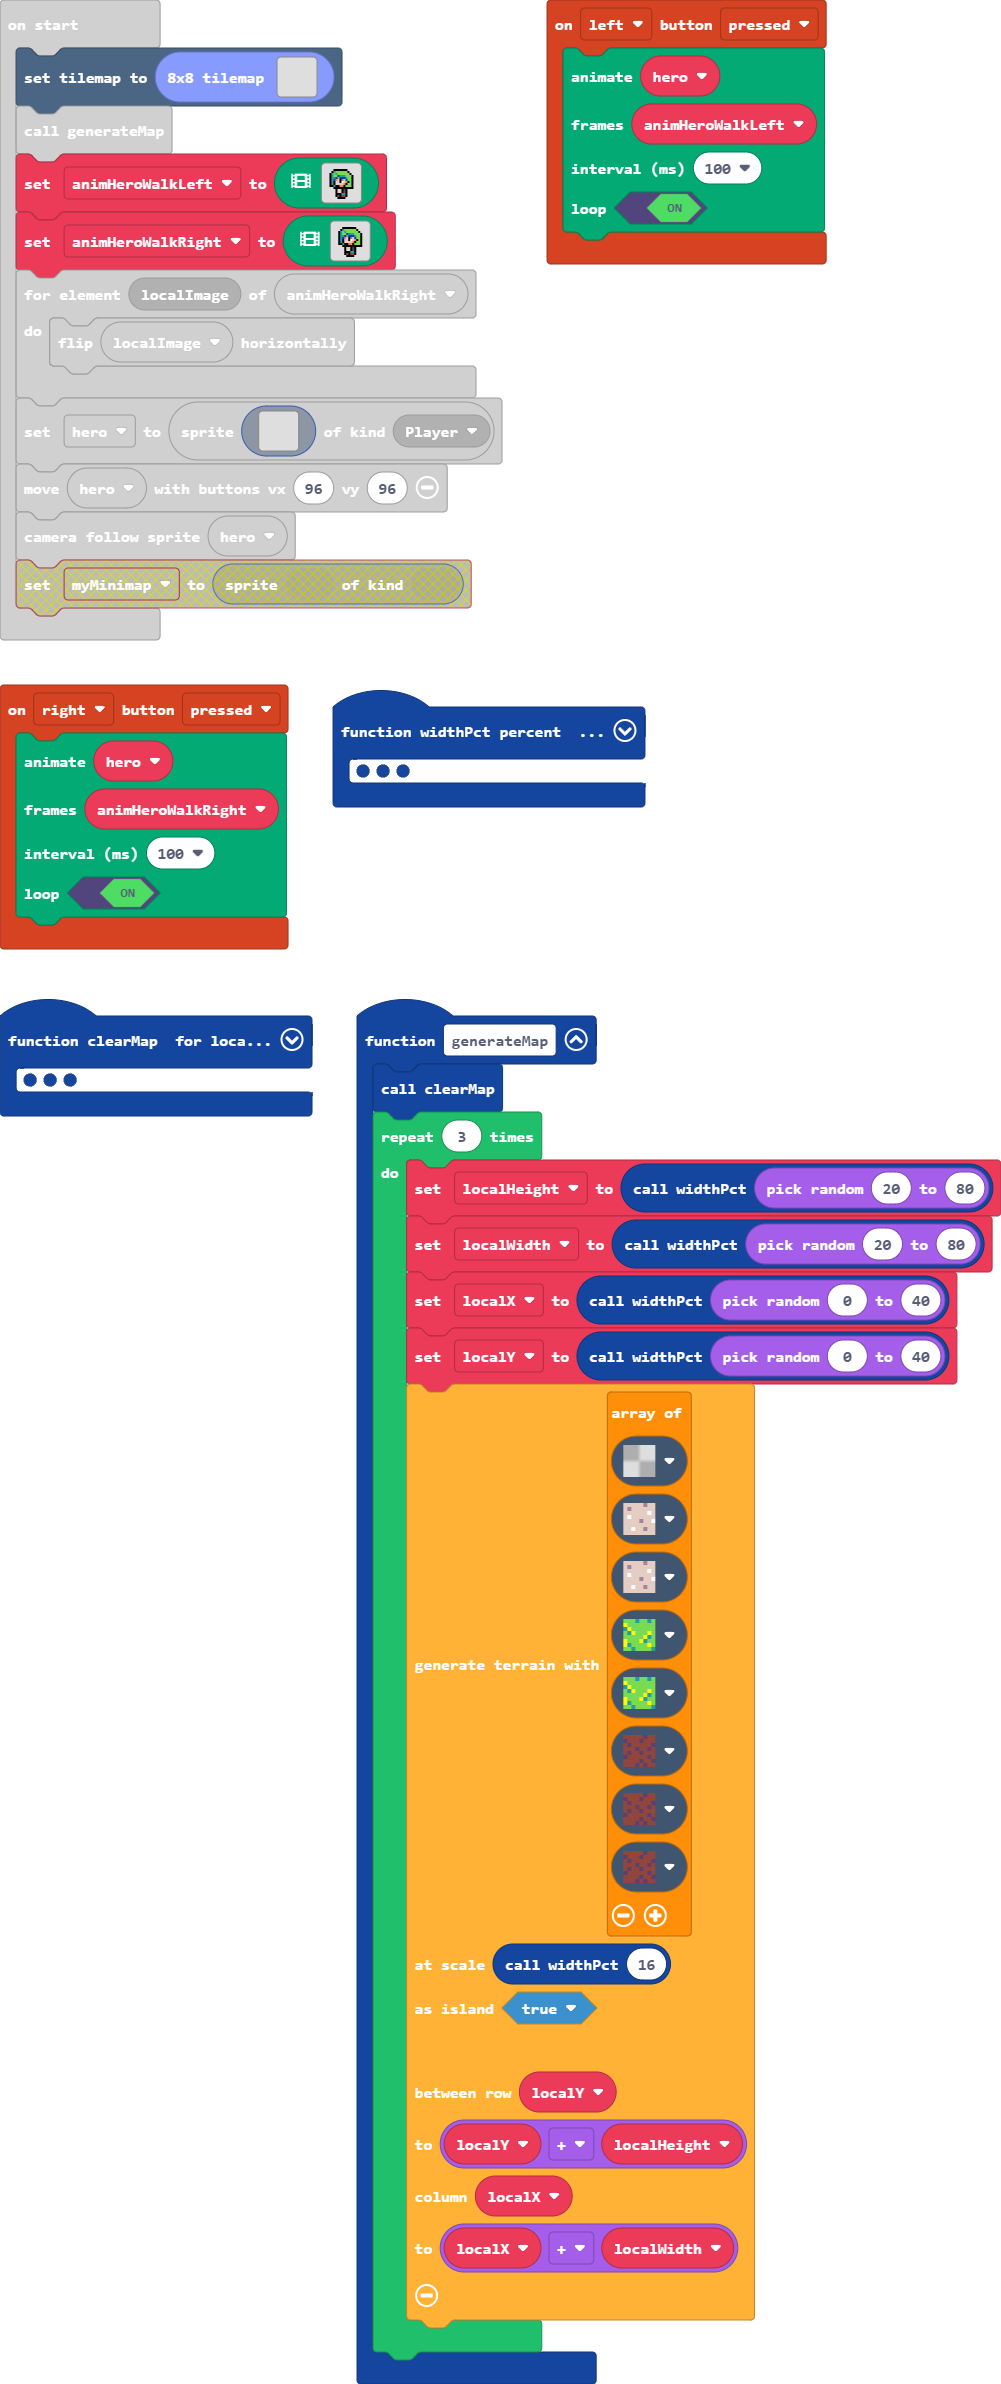
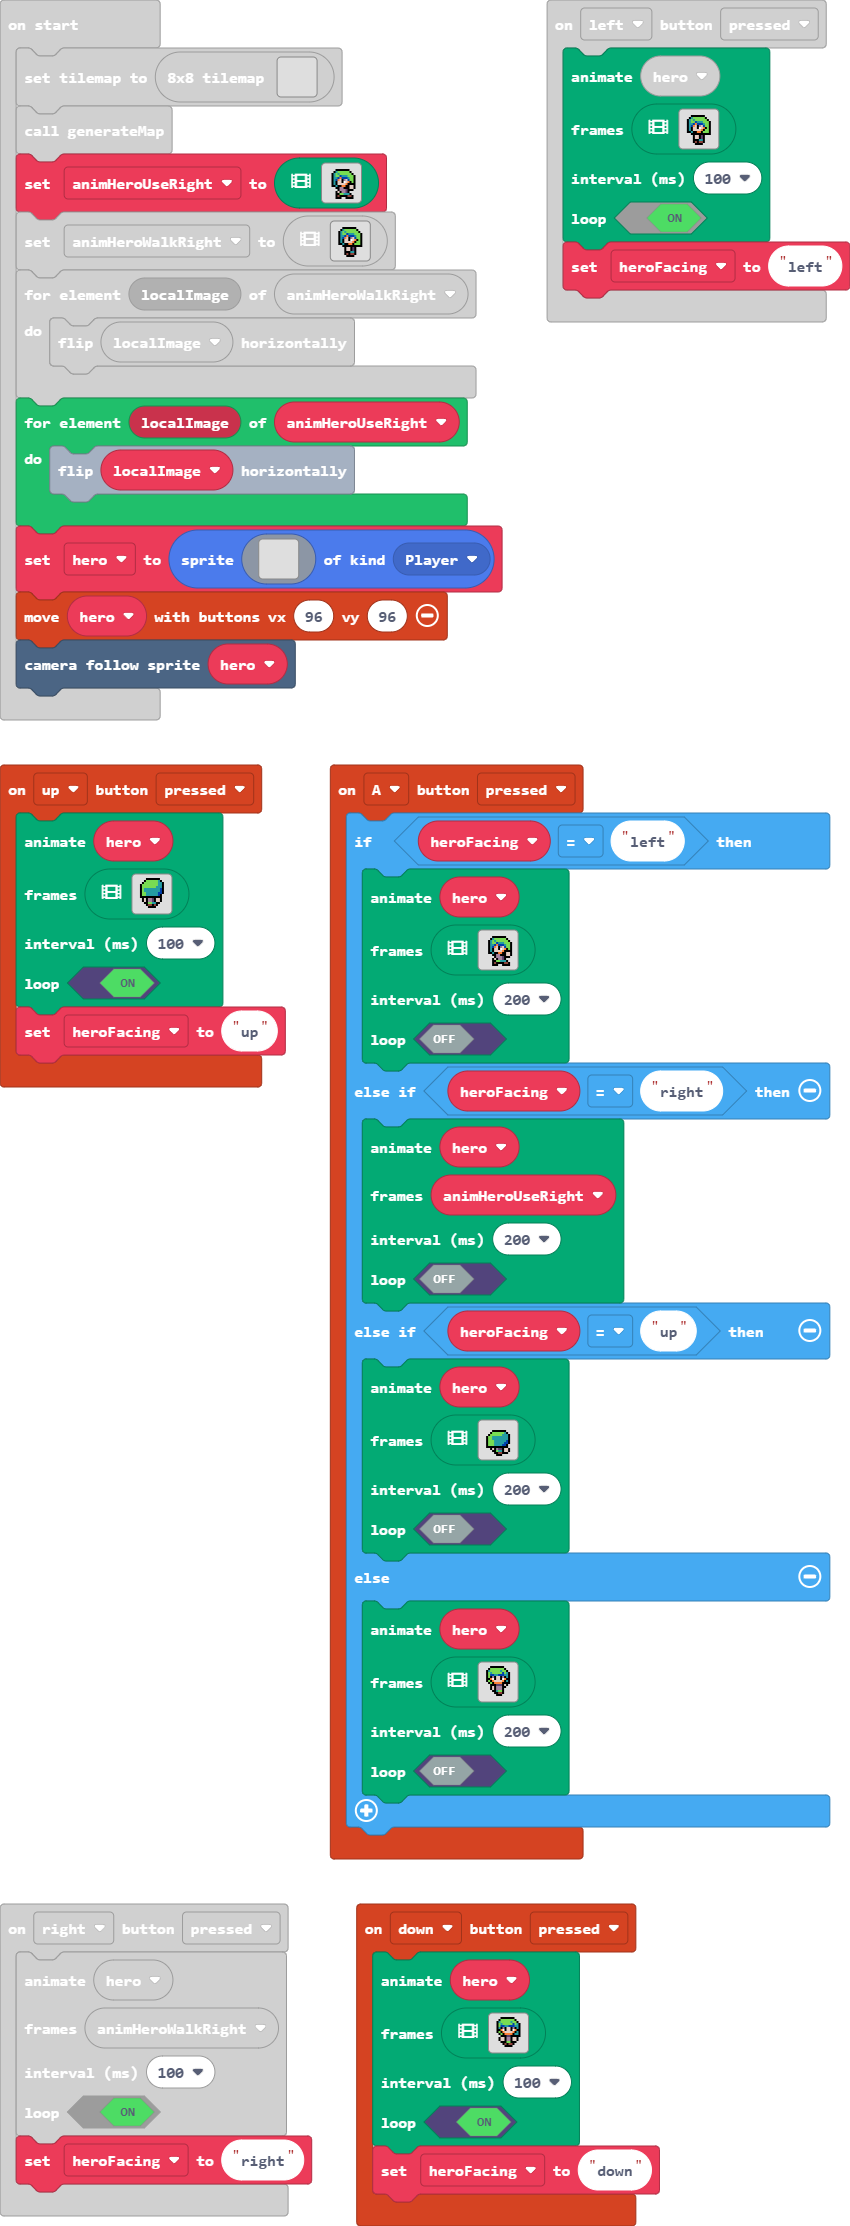
attack frames

diff --git a/images.g.ts b/images.g.ts
@@ -13,76 +13,6 @@ namespace myImages {
 
     helpers._registerFactory("animation", function(name: string) {
         switch(helpers.stringTrim(name)) {
-            case "hero-walk-down":
-            case "O|H5^mM/Ev;*LnN|7a`k":return [img`
-. . . . f f f f f f f . . . . . 
-. . . f 7 7 7 7 7 7 7 f . . . . 
-. . f 6 7 7 7 7 7 6 7 7 f . . . 
-. . f 7 6 7 7 7 7 7 8 7 6 f . . 
-. . f 7 8 8 6 6 8 8 8 6 6 f . . 
-. . f 6 f b f d d f b f 6 f . . 
-. . f f 4 1 f d d f 1 4 f f . . 
-. . f 7 f 4 d d d d 4 f 6 f . . 
-. . . f 7 f 4 4 4 4 f 6 6 f . . 
-. . . . f f f c c f f f f f . . 
-. . . f d d f b b f d d f . . . 
-. . . f d d f b b f d d f . . . 
-. . . . f f f 7 7 f f f . . . . 
-. . . . . f e f e e f . . . . . 
-. . . . . . f f f f . . . . . . 
-. . . . . . . . . . . . . . . . 
-`, img`
-. . . . . . . . . . . . . . . . 
-. . . . f f f f f f f . . . . . 
-. . . f 7 7 7 7 7 7 7 f . . . . 
-. . f 6 7 7 7 7 7 6 7 7 f . . . 
-. . f 7 6 7 7 7 7 7 8 7 6 f . . 
-. . f 7 8 8 6 6 8 8 8 6 6 f . . 
-. . f 7 f b f d d f b f 6 f . . 
-. . f f 4 1 f d d f 1 4 f f . . 
-. . f 7 f 4 d d d d 4 f 6 f . . 
-. . . f 7 f 4 4 4 4 f d f f . . 
-. . . . f f f c c c f d f . . . 
-. . . . f d d f b b f f f . . . 
-. . . . f d d f b b f . . . . . 
-. . . . . f f 6 7 7 f . . . . . 
-. . . . . . f f e e f . . . . . 
-. . . . . . . f f f . . . . . . 
-`, img`
-. . . . f f f f f f f . . . . . 
-. . . f 7 7 7 7 7 7 7 f . . . . 
-. . f 6 7 7 7 7 7 6 7 7 f . . . 
-. . f 7 6 7 7 7 7 7 8 7 6 f . . 
-. . f 7 8 8 6 6 8 8 8 6 6 f . . 
-. . f 6 f b f d d f b f 6 f . . 
-. . f f 4 1 f d d f 1 4 f f . . 
-. . f 7 f 4 d d d d 4 f 6 f . . 
-. . . f 7 f 4 4 4 4 f 6 6 f . . 
-. . . . f f f c c f f f f f . . 
-. . . f d d f b b f d d f . . . 
-. . . f d d f b b f d d f . . . 
-. . . . f f f 7 7 f f f . . . . 
-. . . . . f e e f e f . . . . . 
-. . . . . . f f f f . . . . . . 
-. . . . . . . . . . . . . . . . 
-`, img`
-. . . . . . . . . . . . . . . . 
-. . . . f f f f f f f . . . . . 
-. . . f 7 7 7 7 7 7 7 f . . . . 
-. . f 6 7 7 7 7 7 6 7 7 f . . . 
-. . f 7 6 7 7 7 7 7 8 7 6 f . . 
-. . f 7 8 8 6 6 8 8 8 6 6 f . . 
-. . f 6 f b f d d f b f 6 f . . 
-. . f f 4 1 f d d f 1 4 f f . . 
-. . f 7 f 4 d d d d 4 f 6 f . . 
-. . f f d f 4 4 4 4 f 6 6 f . . 
-. . . f d f c c c f f f f f . . 
-. . . . f f b b f d d f . . . . 
-. . . . . f b b f d d f . . . . 
-. . . . . f 7 7 6 f f . . . . . 
-. . . . . f e e f f . . . . . . 
-. . . . . . f f . . . . . . . . 
-`];
             case "hero-walk-left":
             case "anim1":return [img`
 . . . . . . . . . . . . . . . . 
@@ -223,6 +153,76 @@ namespace myImages {
 . . . . . . f f e e f . . . . . 
 . . . . . . . . f f f . . . . . 
 `];
+            case "hero-walk-down":
+            case "O|H5^mM/Ev;*LnN|7a`k":return [img`
+. . . . f f f f f f f . . . . . 
+. . . f 7 7 7 7 7 7 7 f . . . . 
+. . f 6 7 7 7 7 7 6 7 7 f . . . 
+. . f 7 6 7 7 7 7 7 8 7 6 f . . 
+. . f 7 8 8 6 6 8 8 8 6 6 f . . 
+. . f 6 f b f d d f b f 6 f . . 
+. . f f 4 1 f d d f 1 4 f f . . 
+. . f 7 f 4 d d d d 4 f 6 f . . 
+. . . f 7 f 4 4 4 4 f 6 6 f . . 
+. . . . f f f c c f f f f f . . 
+. . . f d d f b b f d d f . . . 
+. . . f d d f b b f d d f . . . 
+. . . . f f f 7 7 f f f . . . . 
+. . . . . f e f e e f . . . . . 
+. . . . . . f f f f . . . . . . 
+. . . . . . . . . . . . . . . . 
+`, img`
+. . . . . . . . . . . . . . . . 
+. . . . f f f f f f f . . . . . 
+. . . f 7 7 7 7 7 7 7 f . . . . 
+. . f 6 7 7 7 7 7 6 7 7 f . . . 
+. . f 7 6 7 7 7 7 7 8 7 6 f . . 
+. . f 7 8 8 6 6 8 8 8 6 6 f . . 
+. . f 7 f b f d d f b f 6 f . . 
+. . f f 4 1 f d d f 1 4 f f . . 
+. . f 7 f 4 d d d d 4 f 6 f . . 
+. . . f 7 f 4 4 4 4 f d f f . . 
+. . . . f f f c c c f d f . . . 
+. . . . f d d f b b f f f . . . 
+. . . . f d d f b b f . . . . . 
+. . . . . f f 6 7 7 f . . . . . 
+. . . . . . f f e e f . . . . . 
+. . . . . . . f f f . . . . . . 
+`, img`
+. . . . f f f f f f f . . . . . 
+. . . f 7 7 7 7 7 7 7 f . . . . 
+. . f 6 7 7 7 7 7 6 7 7 f . . . 
+. . f 7 6 7 7 7 7 7 8 7 6 f . . 
+. . f 7 8 8 6 6 8 8 8 6 6 f . . 
+. . f 6 f b f d d f b f 6 f . . 
+. . f f 4 1 f d d f 1 4 f f . . 
+. . f 7 f 4 d d d d 4 f 6 f . . 
+. . . f 7 f 4 4 4 4 f 6 6 f . . 
+. . . . f f f c c f f f f f . . 
+. . . f d d f b b f d d f . . . 
+. . . f d d f b b f d d f . . . 
+. . . . f f f 7 7 f f f . . . . 
+. . . . . f e e f e f . . . . . 
+. . . . . . f f f f . . . . . . 
+. . . . . . . . . . . . . . . . 
+`, img`
+. . . . . . . . . . . . . . . . 
+. . . . f f f f f f f . . . . . 
+. . . f 7 7 7 7 7 7 7 f . . . . 
+. . f 6 7 7 7 7 7 6 7 7 f . . . 
+. . f 7 6 7 7 7 7 7 8 7 6 f . . 
+. . f 7 8 8 6 6 8 8 8 6 6 f . . 
+. . f 6 f b f d d f b f 6 f . . 
+. . f f 4 1 f d d f 1 4 f f . . 
+. . f 7 f 4 d d d d 4 f 6 f . . 
+. . f f d f 4 4 4 4 f 6 6 f . . 
+. . . f d f c c c f f f f f . . 
+. . . . f f b b f d d f . . . . 
+. . . . . f b b f d d f . . . . 
+. . . . . f 7 7 6 f f . . . . . 
+. . . . . f e e f f . . . . . . 
+. . . . . . f f . . . . . . . . 
+`];
             case "hero-use-left":
             case "anim3":return [img`
 . . . . . . . . . . . . . . . . 
@@ -258,6 +258,129 @@ f d d f f c c c f . . . . . . .
 f f f 7 7 6 6 6 6 f f . . . . . 
 . . . f e e f f f e e f . . . . 
 . . . f f f . . f f f f . . . . 
+`, img`
+. . . . . . . . . . . . . . . . 
+. . . . f f f f f f f . . . . . 
+. . . f 6 7 7 7 7 7 7 f . . . . 
+. . f 6 7 6 7 7 7 7 7 7 f . . . 
+. . f 6 7 7 8 6 6 6 7 7 7 f . . 
+. . f 6 6 8 4 8 8 8 6 7 7 f . . 
+. . f 6 8 4 d f b d 8 7 7 f . . 
+. . f 6 f d d f 1 d 4 f 7 f . . 
+. . f 6 f d d d d 4 f 7 7 f . . 
+. . f f 6 f f 4 4 f 7 7 7 f . . 
+. . . . f f f f f f f f f f . . 
+. . . . . f d d f c f . . . . . 
+. . . . . f d d f c f . . . . . 
+. . . . . f f f 6 6 f . . . . . 
+. . . . . f e f e e f . . . . . 
+. . . . . . f f f f . . . . . . 
+`];
+            case "hero-use-down":
+            case "anim5":return [img`
+. . . . f f f f f f f . . . . . 
+. . . f 7 7 7 7 7 7 7 f . . . . 
+. . f 6 7 7 7 7 7 6 7 7 f . . . 
+. . f 7 6 7 7 7 7 7 8 7 6 f . . 
+. . f 7 8 8 6 6 8 8 8 6 6 f . . 
+. . f 7 f b f d d f b f 6 f . . 
+. . f f 4 1 f d d f 1 4 f f . . 
+. . f 7 f 4 d d d d 4 f 6 f . . 
+. . . f 7 f 4 4 4 4 f f f f . . 
+. . . . f f f c c c f d f . . . 
+. . . . f d f b b b f f . . . . 
+. . . . f d f b b b f . . . . . 
+. . . . . f f 6 7 7 f . . . . . 
+. . . . . . f f e e f . . . . . 
+. . . . . . . f f f . . . . . . 
+. . . . . . . . . . . . . . . . 
+`, img`
+. . . . . . . . . . . . . . . . 
+. . . f f f f f f f . . . . . . 
+. . f 7 7 7 7 7 7 7 f . . . . . 
+. f 6 7 7 7 7 7 6 7 7 f . . . . 
+. f 7 6 7 7 7 7 7 8 7 6 f . . . 
+. f 7 8 8 6 6 8 8 8 6 6 f . . . 
+. f 6 f b f d d f b f 6 f . . . 
+. f f 4 1 f d d f 1 4 f f . . . 
+. f 7 f 4 d d d d 4 f 6 f . . . 
+. f f 7 f 4 4 4 4 f 6 6 f . . . 
+. . f f f c c c f f f f f . . . 
+. . f d f b b f 1 1 d f . . . . 
+. . . f f b b f 1 1 d f . . . . 
+. . . . f 7 7 f 1 1 d f . . . . 
+. . . . . f e f f f f . . . . . 
+. . . . . . f f f . . . . . . . 
+`, img`
+. . . . . . . . . . . . . . . . 
+. . . . f f f f f f f . . . . . 
+. . . f 7 7 7 7 7 7 7 f . . . . 
+. . f 6 7 7 7 7 7 6 7 7 f . . . 
+. . f 7 6 7 7 7 7 7 8 7 6 f . . 
+. . f 7 8 8 6 6 8 8 8 6 6 f . . 
+. . f 6 f b f d d f b f 6 f . . 
+. . f f 4 1 f d d f 1 4 f f . . 
+. . f 7 f 4 d d d d 4 f 6 f . . 
+. . . f 7 f 4 4 4 4 f 6 6 f . . 
+. . . . f f f c c f f f f f . . 
+. . . f d d f b b f d d f . . . 
+. . . f d d f b b f d d f . . . 
+. . . . f f f 7 7 f f f . . . . 
+. . . . . f e e f e f . . . . . 
+. . . . . . f f f f . . . . . . 
+`];
+            case "hero-use-up":
+            case "anim4":return [img`
+. . . . . . . . . . . . . . . . 
+. . . . . . . . . . . . . . . . 
+. . . . . . . . . . . . . . . . 
+. . . . . f f f f f f f . . . . 
+. . . . f 7 7 7 7 7 7 6 f . . . 
+. . . f 7 7 7 7 7 7 6 6 6 f . . 
+. . f 7 7 6 6 6 6 6 6 6 6 f . . 
+. . f 7 7 6 6 6 6 6 6 6 6 f . . 
+. . f 7 7 7 6 6 6 6 6 6 8 f . . 
+. . f 7 7 7 6 6 6 6 6 8 8 f . . 
+. . f 7 7 7 6 6 6 6 8 8 f . . . 
+. . f f f f f f f f f f f . . . 
+. . . . f d f b c c f d d f . . 
+. . . . . f f 7 6 6 f d d f . . 
+. . . . . . f f e e f f f . . . 
+. . . . . . . f f f . . . . . . 
+`, img`
+. . . f f f f f f f . . . . . . 
+. . f 7 7 7 7 7 7 6 f . . . . . 
+. f 7 7 7 7 7 7 7 6 6 f . . . . 
+f 7 7 7 7 7 7 7 7 6 6 f . . . . 
+f 7 7 7 7 7 7 7 7 6 6 f f f . . 
+f 7 7 7 7 7 7 7 6 6 8 f d f . . 
+f 7 7 6 6 6 6 6 6 6 8 f d f . . 
+f 7 7 6 6 6 6 6 6 6 8 f f . . . 
+f 7 7 7 6 6 6 6 6 6 8 f . . . . 
+f f f f f f f f f f f f . . . . 
+. . f d d f b b c f . . . . . . 
+. . f d d f b b c f . . . . . . 
+. . . f f f 7 7 6 f . . . . . . 
+. . . . . f e e e f . . . . . . 
+. . . . . f f f f . . . . . . . 
+. . . . . . . . . . . . . . . . 
+`, img`
+. . . . . . . . . . . . . . . . 
+. . . . . f f f f f f f . . . . 
+. . . . f 7 7 7 7 7 7 6 f . . . 
+. . . f 7 7 7 7 7 7 7 6 6 f . . 
+. . f 7 7 7 7 7 7 7 7 6 6 f . . 
+. . f 7 7 7 7 7 7 7 6 6 6 f . . 
+. . f 7 6 6 6 6 6 6 6 6 8 f . . 
+. . f 7 6 6 6 6 6 6 6 6 8 f . . 
+. . f 7 7 6 6 6 6 6 6 8 8 f . . 
+. . f 7 7 6 6 6 6 6 6 8 f . . . 
+. . f f f f f f f f f f f . . . 
+. . . f d f b c c f d d f . . . 
+. . . f d f b c c f d d f . . . 
+. . . . f f 7 7 6 6 f f . . . . 
+. . . . . f e f e e f . . . . . 
+. . . . . . f f f f . . . . . . 
 `];
         }
         return null;

diff --git a/main.ts b/main.ts
@@ -1,16 +1,57 @@
 namespace SpriteKind {
     export const StatusBar = SpriteKind.create()
 }
-function widthPct (percent: number) {
-    return percent / 100 * tileUtil.tilemapProperty(tileUtil.currentTilemap(), tileUtil.TilemapProperty.Columns)
-}
-controller.left.onEvent(ControllerButtonEvent.Pressed, function () {
+controller.up.onEvent(ControllerButtonEvent.Pressed, function () {
     animation.runImageAnimation(
     hero,
-    animHeroWalkLeft,
+    assets.animation`hero-walk-up`,
     100,
     true
     )
+    heroFacing = "up"
+})
+function widthPct (percent: number) {
+    return percent / 100 * tileUtil.tilemapProperty(tileUtil.currentTilemap(), tileUtil.TilemapProperty.Columns)
+}
+controller.A.onEvent(ControllerButtonEvent.Pressed, function () {
+    if (heroFacing == "left") {
+        animation.runImageAnimation(
+        hero,
+        assets.animation`hero-use-left`,
+        200,
+        false
+        )
+    } else if (heroFacing == "right") {
+        animation.runImageAnimation(
+        hero,
+        animHeroUseRight,
+        200,
+        false
+        )
+    } else if (heroFacing == "up") {
+        animation.runImageAnimation(
+        hero,
+        assets.animation`hero-use-up`,
+        200,
+        false
+        )
+    } else {
+        animation.runImageAnimation(
+        hero,
+        assets.animation`hero-use-down`,
+        200,
+        false
+        )
+    }
+})
+controller.left.onEvent(ControllerButtonEvent.Pressed, function () {
+    animation.runImageAnimation(
+    hero,
+    assets.animation`hero-walk-left`,
+    100,
+    true
+    )
+    heroFacing = "left"
 })
 controller.right.onEvent(ControllerButtonEvent.Pressed, function () {
     animation.runImageAnimation(
@@ -19,6 +60,7 @@ controller.right.onEvent(ControllerButtonEvent.Pressed, function () {
     100,
     true
     )
+    heroFacing = "right"
 })
 function generateMap () {
     clearMap()
@@ -47,6 +89,15 @@ function generateMap () {
         )
     }
 }
+controller.down.onEvent(ControllerButtonEvent.Pressed, function () {
+    animation.runImageAnimation(
+    hero,
+    assets.animation`hero-walk-down`,
+    100,
+    true
+    )
+    heroFacing = "down"
+})
 function clearMap () {
     for (let localX = 0; localX <= tileUtil.tilemapProperty(tileUtil.currentTilemap(), tileUtil.TilemapProperty.Columns); localX++) {
         for (let localY = 0; localY <= tileUtil.tilemapProperty(tileUtil.currentTilemap(), tileUtil.TilemapProperty.Rows); localY++) {
@@ -58,14 +109,18 @@ let localY = 0
 let localX = 0
 let localWidth = 0
 let localHeight = 0
+let heroFacing = ""
 let hero: Sprite = null
 let animHeroWalkRight: Image[] = []
-let animHeroWalkLeft: Image[] = []
+let animHeroUseRight: Image[] = []
 tiles.setCurrentTilemap(tileUtil.createSmallMap(tilemap`tilemap-tiny-island`))
 generateMap()
-animHeroWalkLeft = assets.animation`hero-walk-left`
+animHeroUseRight = assets.animation`hero-use-left`
 animHeroWalkRight = assets.animation`hero-walk-left`
 for (let localImage of animHeroWalkRight) {
+    localImage.flipX()
+}
+for (let localImage of animHeroUseRight) {
     localImage.flipX()
 }
 hero = sprites.create(assets.image`blank`, SpriteKind.Player)
